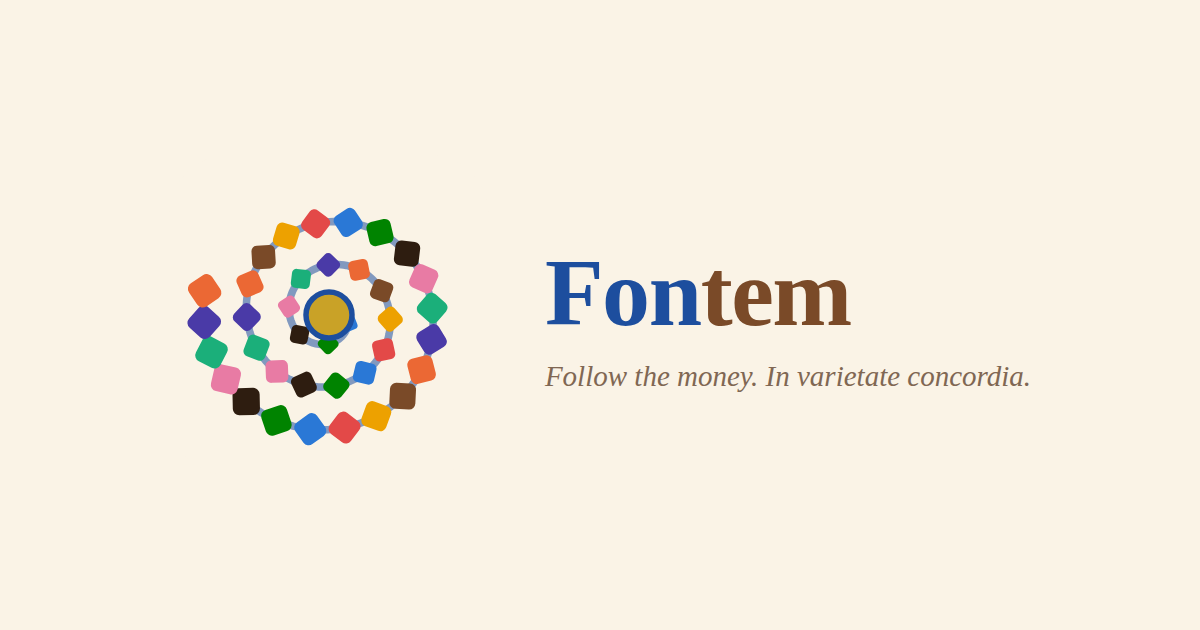
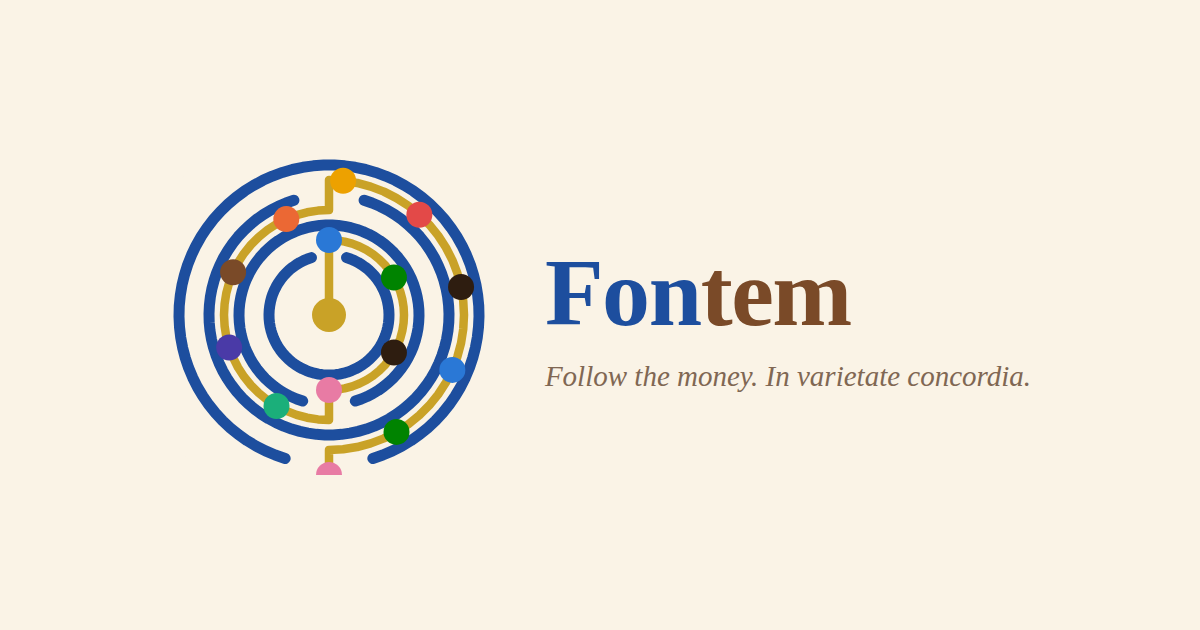
feat(brand): Ariadne's Labyrinth mark (#266)

Changed region(s): [[0.1233, 0.2413, 0.4317, 0.754]]

diff --git a/src/components/MosaicMark.vue b/src/components/MosaicMark.vue
@@ -1,82 +1,49 @@
 <script setup>
 /**
- * The Fontem mark — the Spun Thread. A single thread unspools from a
- * gold source-point (fontem, the spring) and spirals outward, beaded
- * with tesserae of the platform's eight categorical chart hues: each
- * bead is a record strung on the line you follow — following the money.
- * Onyx and umber "drawing stones" are woven through (the dark stones
- * draw the figure). The spiral is the spindle-whorl and the spun thread
- * of the Fates — following a thread, and spinning it, are the oldest
- * women's knowledge in Europe. On dark grounds the thread lifts and the
- * drawing stones take a gold-glass rim (the Byzantine trick).
+ * The Fontem mark - Ariadne's Labyrinth. Four lapis walls form a
+ * unicursal maze (one path, no dead ends): the tangle of shell
+ * companies and intermediaries you have to get through. A single gold
+ * thread - Ariadne's, the method a woman gave for escaping the
+ * labyrinth - runs from the source at the centre out to the world,
+ * beaded with tesserae of the platform's eight categorical hues
+ * (records found as you follow the money), onyx and umber drawing
+ * stones woven in. Truth has one route. On dark grounds the walls lift
+ * and the drawing stones take the Byzantine gold-glass rim.
  *
- * The geometry is computed (one source of truth, matching the favicon),
- * decorative by default (aria-hidden); the surrounding button/link
+ * Geometry is baked (one source of truth, matching the favicon);
+ * decorative by default (aria-hidden) - the surrounding button/link
  * carries the accessible name.
  */
-import { computed } from 'vue'
-
 defineProps({
   /** Rendered pixel size. */
   size: { type: [Number, String], default: 28 },
 })
 
-const HUES = ['#2a78d6', '#1baf7a', '#eda100', '#008300', '#4a3aa7', '#e34948', '#e87ba4', '#eb6834']
-const ONYX = '#2e1d10'
-const UMBER = '#7a4a28'
-
-// Archimedean spiral r = rIn + b·θ, sampled finely for the thread stroke;
-// tesserae are dropped along it at roughly equal arc length.
-const CX = 32
-const TURNS = 2.55
-const THETA_MAX = TURNS * 2 * Math.PI
-const R_IN = 3.6
-const R_OUT = 25.5
-const B = (R_OUT - R_IN) / THETA_MAX
-const SPACING = 6
-
-const mark = computed(() => {
-  const pts = []
-  for (let th = 0; th <= THETA_MAX; th += 0.05) {
-    const r = R_IN + B * th
-    pts.push([CX + r * Math.cos(th), CX + r * Math.sin(th), th])
-  }
-  const threadD = pts.reduce(
-    (d, p, i) => d + `${i ? ' L' : 'M'}${p[0].toFixed(2)} ${p[1].toFixed(2)}`, '')
-
-  const beads = []
-  let acc = SPACING
-  let hue = 0
-  let k = 0
-  let prev = null
-  pts.forEach((p) => {
-    if (prev) acc += Math.hypot(p[0] - prev[0], p[1] - prev[1])
-    prev = p
-    if (acc >= SPACING && p[2] > 0.35) {
-      acc = 0
-      const s = 3.2 + (p[2] / THETA_MAX) * 2.4
-      const draw = k % 5 === 2
-      let fill
-      if (draw) {
-        fill = k % 10 === 2 ? ONYX : UMBER
-      } else {
-        fill = HUES[hue % HUES.length]
-        hue += 3
-      }
-      k += 1
-      beads.push({
-        x: +(p[0] - s / 2).toFixed(2),
-        y: +(p[1] - s / 2).toFixed(2),
-        s: +s.toFixed(2),
-        rx: +(s * 0.24).toFixed(2),
-        rot: `rotate(${((p[2] * 180) / Math.PI + 45).toFixed(1)} ${p[0].toFixed(2)} ${p[1].toFixed(2)})`,
-        fill,
-        draw,
-      })
-    }
-  })
-  return { threadD, beads }
-})
+// Unicursal labyrinth walls (polyline point strings) + Ariadne's thread
+// + the tesserae strung along it. Rasterised once; see the favicon.
+const WALLS = [
+  '35.51,20.52 36.31,20.80 37.08,21.13 37.83,21.51 38.55,21.95 39.24,22.43 39.90,22.96 40.51,23.54 41.08,24.16 41.61,24.82 42.09,25.51 42.52,26.23 42.90,26.98 43.23,27.76 43.50,28.56 43.71,29.38 43.86,30.20 43.96,31.04 44.00,31.88 43.98,32.73 43.90,33.57 43.76,34.40 43.56,35.22 43.31,36.02 43.00,36.80 42.63,37.56 42.22,38.30 41.75,39.00 41.23,39.66 40.67,40.29 40.07,40.88 39.43,41.43 38.75,41.92 38.03,42.37 37.29,42.77 36.52,43.12 35.73,43.41 34.92,43.64 34.10,43.82 33.26,43.93 32.42,43.99 31.58,43.99 30.74,43.93 29.90,43.82 29.08,43.64 28.27,43.41 27.48,43.12 26.71,42.77 25.97,42.37 25.25,41.92 24.57,41.43 23.93,40.88 23.33,40.29 22.77,39.66 22.25,39.00 21.78,38.30 21.37,37.56 21.00,36.80 20.69,36.02 20.44,35.22 20.24,34.40 20.10,33.57 20.02,32.73 20.00,31.88 20.04,31.04 20.14,30.20 20.29,29.38 20.50,28.56 20.77,27.76 21.10,26.98 21.48,26.23 21.91,25.51 22.39,24.82 22.92,24.16 23.49,23.54 24.10,22.96 24.76,22.43 25.45,21.95 26.17,21.51 26.92,21.13 27.69,20.80 28.49,20.52',
+  '26.74,49.21 25.54,48.80 24.38,48.31 23.25,47.73 22.17,47.08 21.14,46.35 20.16,45.55 19.23,44.69 18.37,43.76 17.58,42.78 16.86,41.74 16.22,40.65 15.65,39.52 15.16,38.36 14.76,37.16 14.44,35.94 14.20,34.69 14.06,33.44 14.00,32.17 14.03,30.91 14.15,29.65 14.36,28.41 14.66,27.18 15.04,25.97 15.50,24.80 16.05,23.66 16.68,22.56 17.38,21.50 18.15,20.50 18.99,19.56 19.90,18.68 20.86,17.86 21.88,17.11 22.95,16.44 24.06,15.84 25.22,15.33 26.40,14.89 27.62,14.54 28.86,14.28 30.11,14.10 31.37,14.01 32.63,14.01 33.89,14.10 35.14,14.28 36.38,14.54 37.60,14.89 38.78,15.33 39.94,15.84 41.05,16.44 42.12,17.11 43.14,17.86 44.10,18.68 45.01,19.56 45.85,20.50 46.62,21.50 47.32,22.56 47.95,23.66 48.50,24.80 48.96,25.97 49.34,27.18 49.64,28.41 49.85,29.65 49.97,30.91 50.00,32.17 49.94,33.44 49.80,34.69 49.56,35.94 49.24,37.16 48.84,38.36 48.35,39.52 47.78,40.65 47.14,41.74 46.42,42.78 45.63,43.76 44.77,44.69 43.84,45.55 42.86,46.35 41.83,47.08 40.75,47.73 39.62,48.31 38.46,48.80 37.26,49.21',
+  '39.02,9.05 40.61,9.60 42.16,10.26 43.66,11.02 45.11,11.89 46.48,12.86 47.79,13.93 49.02,15.08 50.17,16.32 51.22,17.63 52.18,19.02 53.05,20.46 53.80,21.97 54.45,23.52 54.99,25.12 55.42,26.75 55.73,28.41 55.92,30.08 56.00,31.77 55.96,33.45 55.80,35.13 55.52,36.79 55.12,38.43 54.61,40.04 53.99,41.61 53.27,43.13 52.43,44.59 51.50,45.99 50.47,47.33 49.35,48.59 48.14,49.76 46.85,50.85 45.49,51.85 44.07,52.75 42.58,53.54 41.04,54.23 39.46,54.81 37.84,55.28 36.19,55.63 34.52,55.87 32.84,55.99 31.16,55.99 29.48,55.87 27.81,55.63 26.16,55.28 24.54,54.81 22.96,54.23 21.42,53.54 19.93,52.75 18.51,51.85 17.15,50.85 15.86,49.76 14.65,48.59 13.53,47.33 12.50,45.99 11.57,44.59 10.73,43.13 10.01,41.61 9.39,40.04 8.88,38.43 8.48,36.79 8.20,35.13 8.04,33.45 8.00,31.77 8.08,30.08 8.27,28.41 8.58,26.75 9.01,25.12 9.55,23.52 10.20,21.97 10.95,20.46 11.82,19.02 12.78,17.63 13.83,16.32 14.98,15.08 16.21,13.93 17.52,12.86 18.89,11.89 20.34,11.02 21.84,10.26 23.39,9.60 24.98,9.05',
+  '23.23,60.69 21.24,60.00 19.30,59.18 17.42,58.22 15.62,57.13 13.89,55.92 12.26,54.59 10.72,53.15 9.29,51.60 7.97,49.96 6.77,48.23 5.69,46.42 4.75,44.54 3.93,42.59 3.26,40.60 2.73,38.56 2.34,36.49 2.10,34.40 2.00,32.29 2.05,30.18 2.26,28.09 2.60,26.01 3.10,23.96 3.73,21.95 4.51,19.99 5.42,18.09 6.46,16.26 7.63,14.51 8.92,12.84 10.32,11.27 11.83,9.80 13.43,8.44 15.13,7.19 16.92,6.07 18.77,5.07 20.70,4.21 22.67,3.49 24.70,2.90 26.76,2.46 28.84,2.17 30.95,2.02 33.05,2.02 35.16,2.17 37.24,2.46 39.30,2.90 41.33,3.49 43.30,4.21 45.23,5.07 47.08,6.07 48.87,7.19 50.57,8.44 52.17,9.80 53.68,11.27 55.08,12.84 56.37,14.51 57.54,16.26 58.58,18.09 59.49,19.99 60.27,21.95 60.90,23.96 61.40,26.01 61.74,28.09 61.95,30.18 62.00,32.29 61.90,34.40 61.66,36.49 61.27,38.56 60.74,40.60 60.07,42.59 59.25,44.54 58.31,46.42 57.23,48.23 56.03,49.96 54.71,51.60 53.28,53.15 51.74,54.59 50.11,55.92 48.38,57.13 46.58,58.22 44.70,59.18 42.76,60.00 40.77,60.69',
+]
+const THREAD = '32.00,32.00 32.00,17.00 32.00,17.00 33.57,17.08 35.12,17.33 36.64,17.73 38.10,18.30 39.50,19.01 40.82,19.86 42.04,20.85 43.15,21.96 44.14,23.18 44.99,24.50 45.70,25.90 46.27,27.36 46.67,28.88 46.92,30.43 47.00,32.00 46.92,33.57 46.67,35.12 46.27,36.64 45.70,38.10 44.99,39.50 44.14,40.82 43.15,42.04 42.04,43.15 40.82,44.14 39.50,44.99 38.10,45.70 36.64,46.27 35.12,46.67 33.57,46.92 32.00,47.00 32.00,53.00 32.00,53.00 29.80,52.88 27.63,52.54 25.51,51.97 23.46,51.18 21.50,50.19 19.66,48.99 17.95,47.61 16.39,46.05 15.01,44.34 13.81,42.50 12.82,40.54 12.03,38.49 11.46,36.37 11.12,34.20 11.00,32.00 11.12,29.80 11.46,27.63 12.03,25.51 12.82,23.46 13.81,21.50 15.01,19.66 16.39,17.95 17.95,16.39 19.66,15.01 21.50,13.81 23.46,12.82 25.51,12.03 27.63,11.46 29.80,11.12 32.00,11.00 32.00,5.00 32.00,5.00 34.82,5.15 37.61,5.59 40.34,6.32 42.98,7.33 45.50,8.62 47.87,10.16 50.07,11.94 52.06,13.93 53.84,16.13 55.38,18.50 56.67,21.02 57.68,23.66 58.41,26.39 58.85,29.18 59.00,32.00 58.85,34.82 58.41,37.61 57.68,40.34 56.67,42.98 55.38,45.50 53.84,47.87 52.06,50.07 50.07,52.06 47.87,53.84 45.50,55.38 42.98,56.67 40.34,57.68 37.61,58.41 34.82,58.85 32.00,59.00 32.00,64.00'
+const BEADS = [
+  { x: 32, y: 17, fill: '#2a78d6', draw: false },
+  { x: 44.99, y: 24.5, fill: '#008300', draw: false },
+  { x: 44.99, y: 39.5, fill: '#2e1d10', draw: true },
+  { x: 32, y: 47, fill: '#e87ba4', draw: false },
+  { x: 21.5, y: 50.19, fill: '#1baf7a', draw: false },
+  { x: 12.03, y: 38.49, fill: '#4a3aa7', draw: false },
+  { x: 12.82, y: 23.46, fill: '#7a4a28', draw: true },
+  { x: 23.46, y: 12.82, fill: '#eb6834', draw: false },
+  { x: 34.82, y: 5.15, fill: '#eda100', draw: false },
+  { x: 50.07, y: 11.94, fill: '#e34948', draw: false },
+  { x: 58.41, y: 26.39, fill: '#2e1d10', draw: true },
+  { x: 56.67, y: 42.98, fill: '#2a78d6', draw: false },
+  { x: 45.5, y: 55.38, fill: '#008300', draw: false },
+  { x: 32, y: 64, fill: '#e87ba4', draw: false },
+]
 </script>
 
 <template>
@@ -84,36 +51,35 @@ const mark = computed(() => {
     class="mosaic-mark" :width="size" :height="size" viewBox="0 0 64 64"
     aria-hidden="true" focusable="false"
   >
-    <path
-      class="mm-thread" :d="mark.threadD" fill="none"
-      stroke-width="1.5" stroke-linecap="round" opacity="0.55"
+    <polyline
+      v-for="(w, i) in WALLS" :key="'w' + i" class="mm-wall" :points="w"
+      fill="none" stroke-width="2.2" stroke-linecap="round" stroke-linejoin="round"
     />
-    <rect
-      v-for="(t, i) in mark.beads" :key="i"
-      :class="{ 'mm-draw': t.draw }"
-      :x="t.x" :y="t.y" :width="t.s" :height="t.s" :rx="t.rx"
-      :fill="t.fill" :transform="t.rot"
+    <polyline
+      class="mm-thread" :points="THREAD" fill="none" stroke="#c9a227"
+      stroke-width="1.7" stroke-linecap="round" stroke-linejoin="round"
     />
-    <circle cx="32" cy="32" r="4.6" fill="#c9a227" />
-    <circle class="mm-ring" cx="32" cy="32" r="4.6" fill="none" stroke-width="1.1" />
+    <circle
+      v-for="(b, i) in BEADS" :key="'b' + i" :class="{ 'mm-draw': b.draw }"
+      :cx="b.x" :cy="b.y" r="2.6" :fill="b.fill"
+    />
+    <circle cx="32" cy="32" r="3.4" fill="#c9a227" />
   </svg>
 </template>
 
 <style scoped>
 .mosaic-mark { display: block; }
-/* The thread + source ring are lapis; on dusk they lift so the mark
-   reads on dark chrome. The drawing stones take the Byzantine
-   gold-glass rim in dark, same as the favicon. */
-.mm-thread, .mm-ring { stroke: #1d4e9e; }
+/* Walls are lapis; on dusk they lift so the maze reads on dark chrome.
+   The gold thread + source stay gold in both themes; the drawing stones
+   take the Byzantine gold-glass rim in dark. */
+.mm-wall { stroke: #1d4e9e; }
 .mosaic-mark .mm-draw { stroke: none; }
-:global(html.dark) .mm-thread,
-:global(html.dark) .mm-ring { stroke: #8fb0ea; }
+:global(html.dark) .mm-wall { stroke: #8fb0ea; }
 :global(html.dark) .mosaic-mark .mm-draw { stroke: #c9a227; stroke-width: 0.6; }
 @media (prefers-color-scheme: dark) {
-  .mm-thread, .mm-ring { stroke: #8fb0ea; }
+  .mm-wall { stroke: #8fb0ea; }
   .mosaic-mark .mm-draw { stroke: #c9a227; stroke-width: 0.6; }
 }
-:global(html:not(.dark)) .mm-thread,
-:global(html:not(.dark)) .mm-ring { stroke: #1d4e9e; }
+:global(html:not(.dark)) .mm-wall { stroke: #1d4e9e; }
 :global(html:not(.dark)) .mosaic-mark .mm-draw { stroke: none; }
 </style>

diff --git a/tests/unit/MosaicMark.test.js b/tests/unit/MosaicMark.test.js
@@ -2,40 +2,35 @@ import { describe, it, expect } from 'vitest'
 import { mount } from '@vue/test-utils'
 import MosaicMark from '../../src/components/MosaicMark.vue'
 
-// The mark beads a spiral thread; the deterministic geometry yields 37 beads.
-const BEADS = 37
-
-describe('MosaicMark (the Spun Thread)', () => {
-  it('draws the thread + beads it with tesserae, decorative by default', () => {
+describe('MosaicMark (Ariadne\'s Labyrinth)', () => {
+  it('draws the four labyrinth walls + the gold Ariadne thread', () => {
     const w = mount(MosaicMark)
-    const svg = w.find('svg')
-    expect(svg.attributes('aria-hidden')).toBe('true')
-    expect(w.find('path.mm-thread').exists()).toBe(true) // the thread
-    expect(w.find('path.mm-thread').attributes('d')).toMatch(/^M/)
-    expect(w.findAll('rect').length).toBe(BEADS) // the records on it
+    expect(w.find('svg').attributes('aria-hidden')).toBe('true')
+    expect(w.findAll('polyline.mm-wall').length).toBe(4)
+    const thread = w.find('polyline.mm-thread')
+    expect(thread.exists()).toBe(true)
+    expect(thread.attributes('stroke')).toBe('#c9a227') // gold thread
   })
 
-  it('anchors a gold source-point — fontem, the spring', () => {
+  it('beads the thread with tesserae and anchors a gold source at the centre', () => {
     const w = mount(MosaicMark)
-    const circles = w.findAll('circle')
-    // a filled gold disc + its lapis ring, both at the spiral centre
-    expect(circles.length).toBe(2)
-    expect(circles[0].attributes('fill')).toBe('#c9a227')
-    expect(circles.every((c) => c.attributes('cx') === '32' && c.attributes('cy') === '32')).toBe(true)
+    expect(w.findAll('circle').length).toBe(15) // 14 record-beads + 1 source
+    const source = w.findAll('circle').at(-1)
+    expect(source.attributes('cx')).toBe('32')
+    expect(source.attributes('cy')).toBe('32')
+    expect(source.attributes('fill')).toBe('#c9a227')
   })
 
-  it('weaves the dark drawing stones through the thread', () => {
+  it('weaves dark drawing stones among the record-beads', () => {
     const w = mount(MosaicMark)
-    const draw = w.findAll('rect.mm-draw')
-    expect(draw.length).toBeGreaterThanOrEqual(5)
-    const fills = draw.map((r) => r.attributes('fill'))
-    expect(fills).toContain('#2e1d10') // onyx
-    expect(fills).toContain('#7a4a28') // umber
+    const draw = w.findAll('circle.mm-draw')
+    expect(draw.length).toBeGreaterThanOrEqual(2)
+    const fills = draw.map((c) => c.attributes('fill'))
+    expect(fills.some((f) => f === '#2e1d10' || f === '#7a4a28')).toBe(true)
   })
 
   it('honours the size prop', () => {
     const w = mount(MosaicMark, { props: { size: 48 } })
     expect(w.find('svg').attributes('width')).toBe('48')
-    expect(w.find('svg').attributes('height')).toBe('48')
   })
 })

diff --git a/index.html b/index.html
@@ -7,9 +7,9 @@
     <title>Fontem — Follow the numbers, verify the claims</title>
     <meta name="description" content="Fontem — the primary-source transparency platform. EU companies, public procurement, lobbyists, and cohesion funding, linked into one graph and cross-checked against the official registers."/>
     <!--/ssr-head-->
-    <link rel="icon" type="image/svg+xml" href="/favicon.svg?v=thread"/>
-    <link rel="manifest" href="/manifest.json?v=thread"/>
-    <link rel="apple-touch-icon" href="/apple-touch-icon.png?v=thread"/>
+    <link rel="icon" type="image/svg+xml" href="/favicon.svg?v=laby"/>
+    <link rel="manifest" href="/manifest.json?v=laby"/>
+    <link rel="apple-touch-icon" href="/apple-touch-icon.png?v=laby"/>
     <meta name="theme-color" content="#1d4e9e"/>
     <meta name="apple-mobile-web-app-capable" content="yes"/>
     <meta name="apple-mobile-web-app-status-bar-style" content="black-translucent"/>
